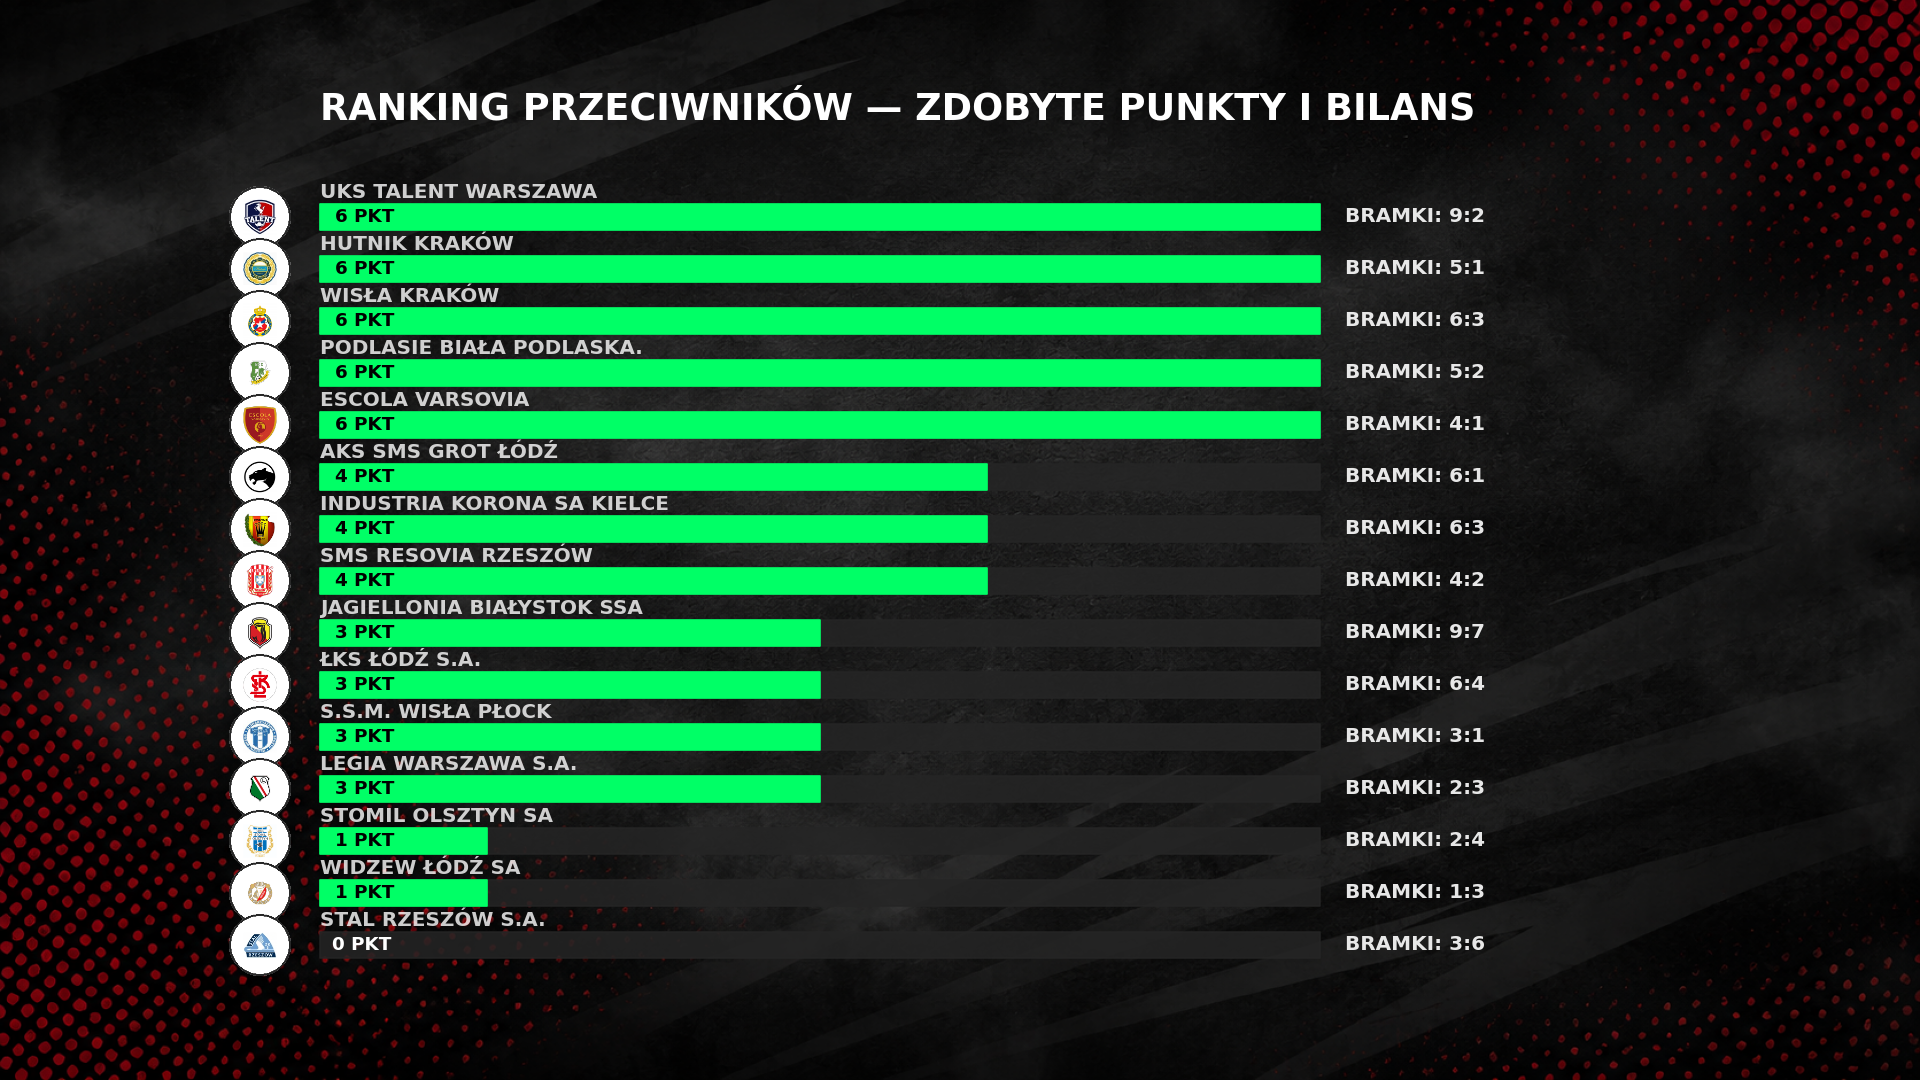
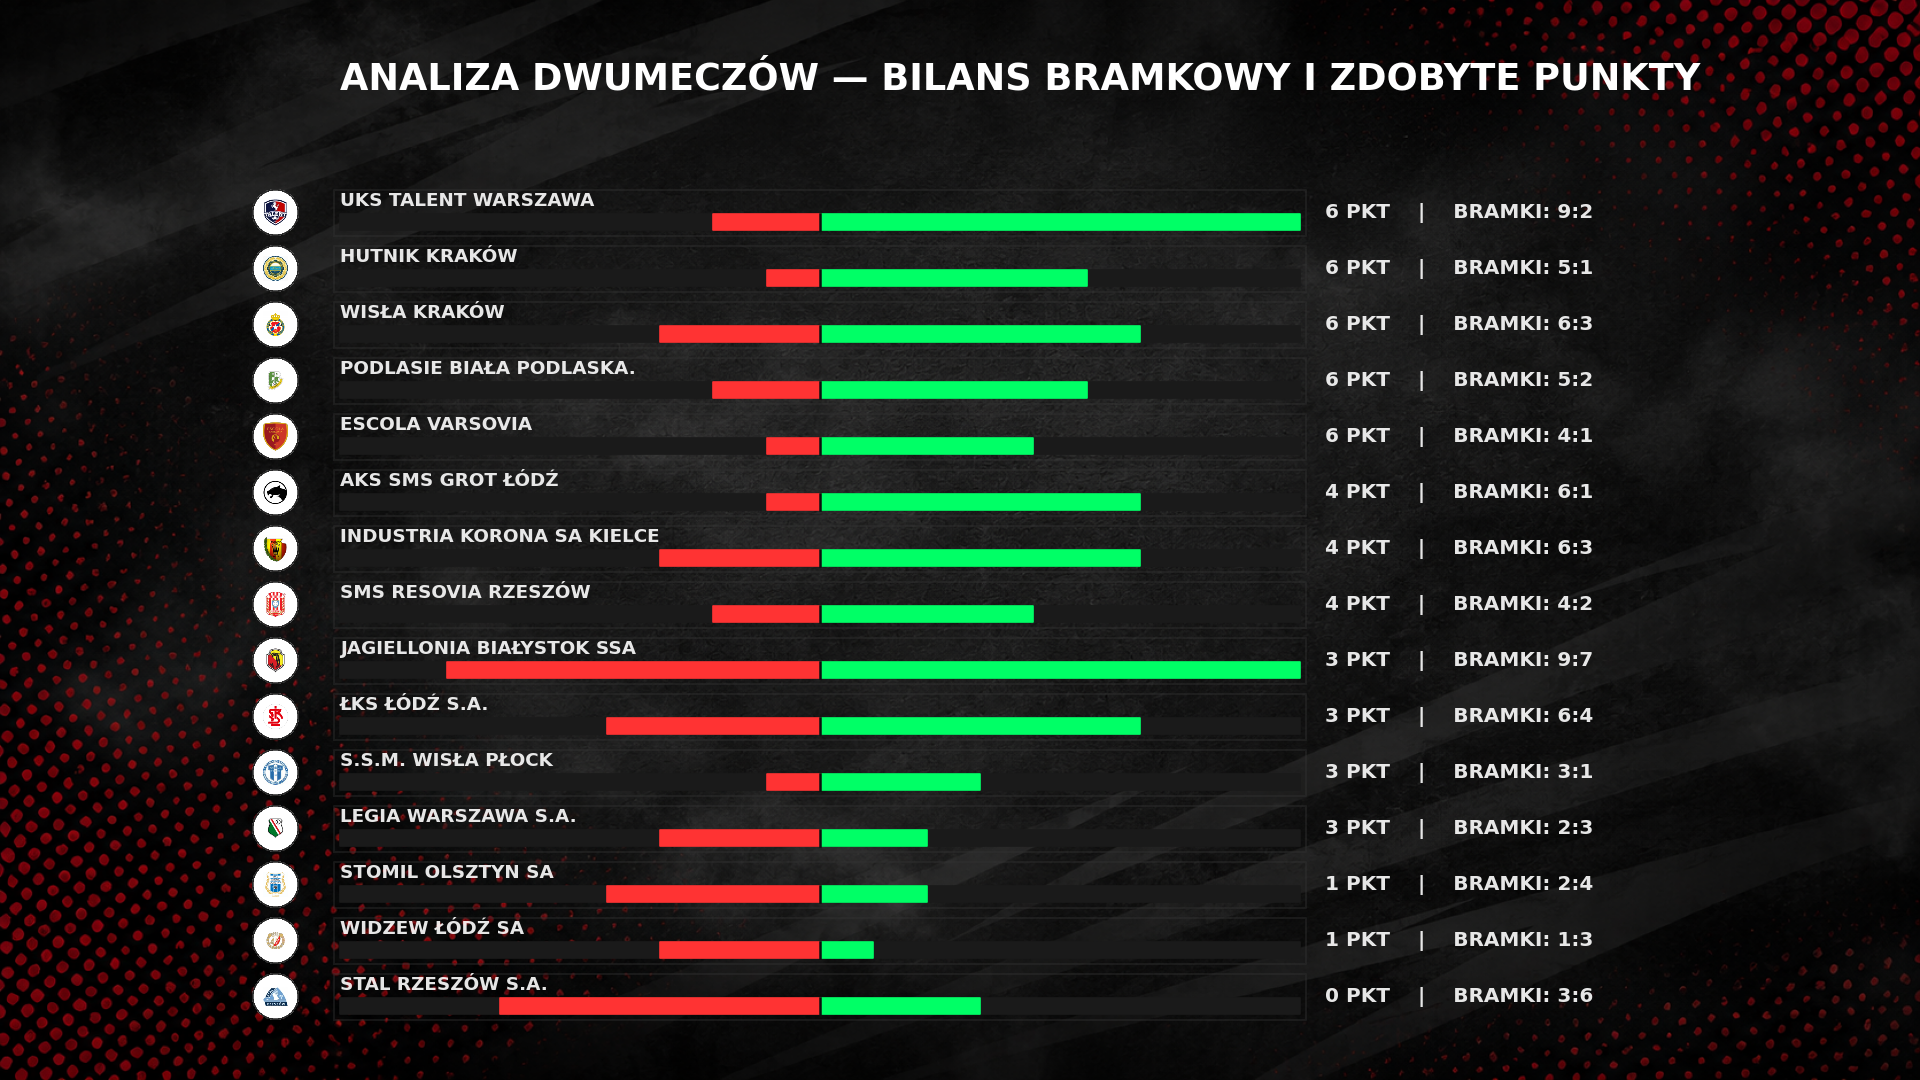
add opponent_difficulty_ranking

diff --git a/plotting_scripts/plot_opponent_difficulty_ranking.py b/plotting_scripts/plot_opponent_difficulty_ranking.py
@@ -8,19 +8,20 @@ import numpy as np
 # Importujemy sprawdzoną infrastrukturę z Twojego util.py
 from util import (
     MATCHES_CSV_PATH, BG_PATH, PLOTS_DIR, 
-    add_club_logo, COLOR_WIN
+    add_club_logo, COLOR_WIN, COLOR_LOSS
 )
 
-# CENTRALNA CONFIGURACJA PALETY (Spójna z resztą prezentacji)
-COLOR_BAR_FILL = "#00FF66"   # Neonowa zieleń Polonii dla zdobytych punktów
-COLOR_BAR_BG = "#252525"     # Rozjaśniony grafitowy korytarz tła słupka (sufit 6 pkt)
+# CENTRALNA KONFIGURACJA PALETY (Tylko bramki od środka!)
+COLOR_GOALS_FOR = "#00FF66"  # Soczysty zielony dla bramek strzelonych (w prawo)
+COLOR_GOALS_AG = "#FF3333"   # Agresywny czerwony dla bramek straconych (w lewo)
+COLOR_BAR_BG = "#1A1A1A"      # Głęboki grafit wnętrza pasów
+COLOR_CONTAINER_BORDER = "#333333" # Kolor ramki scalającej cały komponent
 FONT_COLOR = "#FFFFFF"
 
 def calculate_opponent_stats():
     """Wczytuje mecze, agreguje punkty oraz bramki w dwumeczach z każdym rywalem."""
     df = pd.read_csv(MATCHES_CSV_PATH)
     
-    # Liczenie punktów dla pojedynczych meczów
     def get_points(row):
         gf = int(row["goals_for"])
         ga = int(row["goals_against"])
@@ -30,7 +31,6 @@ def calculate_opponent_stats():
         
     df["points"] = df.apply(get_points, axis=1)
     
-    # Agregacja danych po przeciwniku
     grouped = df.groupby("opponent").agg(
         total_points=("points", "sum"),
         goals_scored=("goals_for", "sum"),
@@ -38,10 +38,9 @@ def calculate_opponent_stats():
         matches_played=("opponent", "count")
     ).reset_index()
     
-    # Bilans bramkowy jako pomocnicza kolumna do sortowania (różnica bramek)
     grouped["goal_diff"] = grouped["goals_scored"] - grouped["goals_conceded"]
     
-    # Sortowanie: najpierw punkty (malejąco), potem bilans bramek (malejąco)
+    # Sortowanie niezmienne: punkty -> bilans bramek -> bramki strzelone
     grouped = grouped.sort_values(
         by=["total_points", "goal_diff", "goals_scored"], 
         ascending=[False, False, False]
@@ -50,7 +49,7 @@ def calculate_opponent_stats():
     return grouped
 
 def generate_opponent_ranking():
-    print("Przetwarzanie danych i generowanie rankingu przeciwników...")
+    print("Generowanie czystego, jednopasmowego wykresu bilansu dwumeczów...")
     PLOTS_DIR.mkdir(parents=True, exist_ok=True)
     
     if not MATCHES_CSV_PATH.exists():
@@ -64,101 +63,108 @@ def generate_opponent_ranking():
         print("Brak danych o przeciwnikach.")
         return
         
+    # Szukamy maksa bramkowego do symetrycznej skali od środka
+    max_goals_in_series = max(opponents_df["goals_scored"].max(), opponents_df["goals_conceded"].max())
+    if max_goals_in_series < 1:
+        max_goals_in_series = 1
+
     # Inicjalizacja płótna 16:9 Full HD
     fig, ax = plt.subplots(figsize=(16, 9), dpi=120)
     fig.subplots_adjust(left=0, right=1, bottom=0, top=1)
     ax.axis("off")
     
-    # Podkład pod wykres (Twoje kozackie tło)
     bg_img = mpimg.imread(str(BG_PATH))
     ax.imshow(bg_img, extent=[0, 1920, 0, 1080])
     
     # Nagłówek główny grafiki
-    ax.text(320, 960, "RANKING PRZECIWNIKÓW — ZDOBYTE PUNKTY I BILANS", 
+    ax.text(340, 990, "ANALIZA DWUMECZÓW — BILANS BRAMKOWY I ZDOBYTE PUNKTY", 
             color=FONT_COLOR, fontsize=22, fontweight="bold", ha="left")
     
-    # Parametry pozycjonowania słupków na ekranie
-    start_y = 850          # Wysokość pierwszego (najwyższego) słupka
-    bar_gap = 52           # Odstęp w pionie między słupkami
-    start_x_bar = 320      # Gdzie fizycznie zaczyna się słupek w poziomie
-    max_bar_width = 1000   # Maksymalna długość słupka odpowiadająca 6 punktom
-    bar_height = 26        # Grubość słupka
+    # PARAMETRY GEOMETRII (Dopasowane pod jeden pasek bramkowy i nazwę)
+    start_y = 850          # Wysokość początkowa pierwszego wiersza
+    bar_gap = 56           # Idealny pionowy skok między rywalami
+    start_x_bar = 340      # Pozycja X rozpoczęcia paska
+    max_bar_width = 960    # Szerokość korytarza bramkowego
     
-    # Iteracja po zagregowanych przeciwnikach i rysowanie warstw
+    bar_height = 16        # Minimalnie grubszy pasek bramek, skoro jest sam
+    text_height_offset = 18 # Odstęp dla nazwy zespołu nad paskiem
+    padding = 6            # Margines dekoracyjnej obwódki kontenera
+    
+    center_x_goals = start_x_bar + (max_bar_width / 2)
+
     for idx, row in opponents_df.iterrows():
-        current_y = start_y - (idx * bar_gap)
+        # Obliczanie Y pod jeden pasek i tekst nad nim
+        y_container_bottom = start_y - (idx * bar_gap)
+        y_goals_bar = y_container_bottom
+        y_text_top = y_goals_bar + bar_height + text_height_offset
         
         opponent_name = row["opponent"].upper()
         pts = int(row["total_points"])
         gf = int(row["goals_scored"])
         ga = int(row["goals_conceded"])
         
-        # Matematyczne wyliczenie szerokości paska (maksymalna pula to 6 pkt w dwumeczu)
-        # Zabezpieczenie: jeśli grali tylko 1 mecz (np. runda się nie skończyła), sufit to 3 pkt
-        max_possible_pts = int(row["matches_played"]) * 3
-        pct = pts / max_possible_pts if max_possible_pts > 0 else 0
-        current_bar_width = max_bar_width * pct
+        # -------------------------------------------------------------
+        # 1. RYSOWANIE KONTENERA (Zamyka w ramce pasek bramek + tekst nazwy)
+        # -------------------------------------------------------------
+        box_x = [start_x_bar - padding, start_x_bar + max_bar_width + padding, 
+                 start_x_bar + max_bar_width + padding, start_x_bar - padding, start_x_bar - padding]
+        box_y = [y_container_bottom - padding, y_container_bottom - padding, 
+                 y_text_top + padding, y_text_top + padding, y_container_bottom - padding]
+        ax.plot(box_x, box_y, color=COLOR_CONTAINER_BORDER, linewidth=1.2, alpha=0.4, zorder=1)
+
+        # -------------------------------------------------------------
+        # 2. PAS BRAMKOWY: OD ŚRODKA W BOKI (Zieleń vs Czerwień)
+        # -------------------------------------------------------------
+        # Tło paska
+        ax.fill_between([start_x_bar, start_x_bar + max_bar_width], y_goals_bar, y_goals_bar + bar_height, color=COLOR_BAR_BG, zorder=2)
         
-        # 1. Rysowanie tła korytarza paska (pełny wymiar oznaczający 100% punktów)
-        ax.fill_between(
-            [start_x_bar, start_x_bar + max_bar_width], 
-            current_y, current_y + bar_height, 
-            color=COLOR_BAR_BG, alpha=0.85, zorder=2
-        )
+        pixel_per_goal = (max_bar_width / 2) / max_goals_in_series
+        width_gf = gf * pixel_per_goal
+        width_ga = ga * pixel_per_goal
         
-        # 2. Rysowanie paska postępu (zdobyte punkty) - jeśli zdobyto 0 pkt, nie rysujemy pustego paska
-        if current_bar_width > 0:
-            ax.fill_between(
-                [start_x_bar, start_x_bar + current_bar_width], 
-                current_y, current_y + bar_height, 
-                color=COLOR_BAR_FILL, zorder=3
-            )
+        # Nasze bramki (W prawo — zieleń)
+        if width_gf > 0:
+            ax.fill_between([center_x_goals, center_x_goals + width_gf], y_goals_bar, y_goals_bar + bar_height, color=COLOR_GOALS_FOR, zorder=3)
+        # Stracone bramki (W lewo — czerwień)
+        if width_ga > 0:
+            ax.fill_between([center_x_goals - width_ga, center_x_goals], y_goals_bar, y_goals_bar + bar_height, color=COLOR_GOALS_AG, zorder=3)
             
-        # 3. Dodanie idealnie gładkiego, wektorowego herbu po lewej stronie paska
-        # Pozycja X koła herbu przesunięta o 60 pikseli w lewo od paska
-        x_logo = start_x_bar - 60
-        y_logo_center = current_y + (bar_height / 2)
-        add_club_logo(ax, row["opponent"], x_logo, y_logo_center, zoom=0.68)
-        
-        # 4. Nazwa przeciwnika NAD słupkiem (lekko uniesiona w pionie, idealnie czytelna)
+        # Czarna linia środkowa (Punkt zero)
+        ax.plot([center_x_goals, center_x_goals], [y_goals_bar, y_goals_bar + bar_height], color="#0D0D0D", linewidth=1.5, zorder=4)
+
+        # -------------------------------------------------------------
+        # 3. NAZWA DRUŻYNY (Siedzi czysto i bezpiecznie nad paskiem bramek)
+        # -------------------------------------------------------------
         ax.text(
-            start_x_bar, current_y + bar_height + 6, 
-            opponent_name, color=FONT_COLOR, fontsize=12, fontweight="bold", alpha=0.8
+            start_x_bar, y_goals_bar + bar_height + 4, 
+            opponent_name, color=FONT_COLOR, fontsize=11, fontweight="bold", alpha=0.9, va="bottom"
         )
+
+        # -------------------------------------------------------------
+        # 4. KOREKTA POZYCJI LOGO: Centrowanie od dołu paska do samej góry tekstu
+        # -------------------------------------------------------------
+        y_real_center = (y_container_bottom + y_text_top) / 2
+        x_logo = start_x_bar - 65
+        add_club_logo(ax, row["opponent"], x_logo, y_real_center, zoom=0.52)
         
-        # 5. Liczba punktów wpisana wewnątrz zielonego paska (jeśli jest miejsce) lub tuż obok niego
-        # Tekst sformatowany jako "X pkt"
-        pts_str = f"{pts} PKT"
-        if pct > 0.15:
-            # Wewnątrz paska (czarny tekst na zielonym tle)
-            ax.text(
-                start_x_bar + 15, current_y + (bar_height / 2), 
-                pts_str, color="#000000", fontsize=11, fontweight="bold", va="center", zorder=4
-            )
-        else:
-            # Na zewnątrz paska (biały tekst tuż za paskiem)
-            ax.text(
-                start_x_bar + current_bar_width + 12, current_y + (bar_height / 2), 
-                pts_str, color=FONT_COLOR, fontsize=11, fontweight="bold", va="center", zorder=4
-            )
-            
-        # 6. Bilans bramkowy na samym końcu korytarza słupka po prawej stronie
-        # Wyświetlane w formacie: "BRAMKI: 5:2"
-        score_balance_str = f"BRAMKI: {gf}:{ga}"
+        # -------------------------------------------------------------
+        # 5. BLOK TEKSTOWY PO PRAWEJ (Idealnie wyśrodkowany w osi wiersza)
+        # -------------------------------------------------------------
+        x_text_right = start_x_bar + max_bar_width + 25
+        summary_text = f"{pts} PKT    |    BRAMKI: {gf}:{ga}"
         ax.text(
-            start_x_bar + max_bar_width + 25, current_y + (bar_height / 2), 
-            score_balance_str, color=FONT_COLOR, fontsize=12, fontweight="bold", alpha=0.9, 
+            x_text_right, y_real_center, 
+            summary_text, color=FONT_COLOR, fontsize=12, fontweight="bold", alpha=0.9, 
             va="center", ha="left"
         )
 
-    # Sztywne zamykanie sceny graficznej 16:9
     ax.set_xlim(0, 1920)
     ax.set_ylim(0, 1080)
     
     output_path = PLOTS_DIR / "opponent_difficulty_ranking.png"
     plt.savefig(output_path, dpi=120, pad_inches=0, transparent=False)
     plt.close()
-    print(f"🚀 Sukces! Wykres rankingu przeciwników zapisano w: {output_path}")
+    print(f"🚀 Sukces! Oczyszczony, wektorowy wykres rywali zapisano w: {output_path}")
 
 if __name__ == "__main__":
     generate_opponent_ranking()